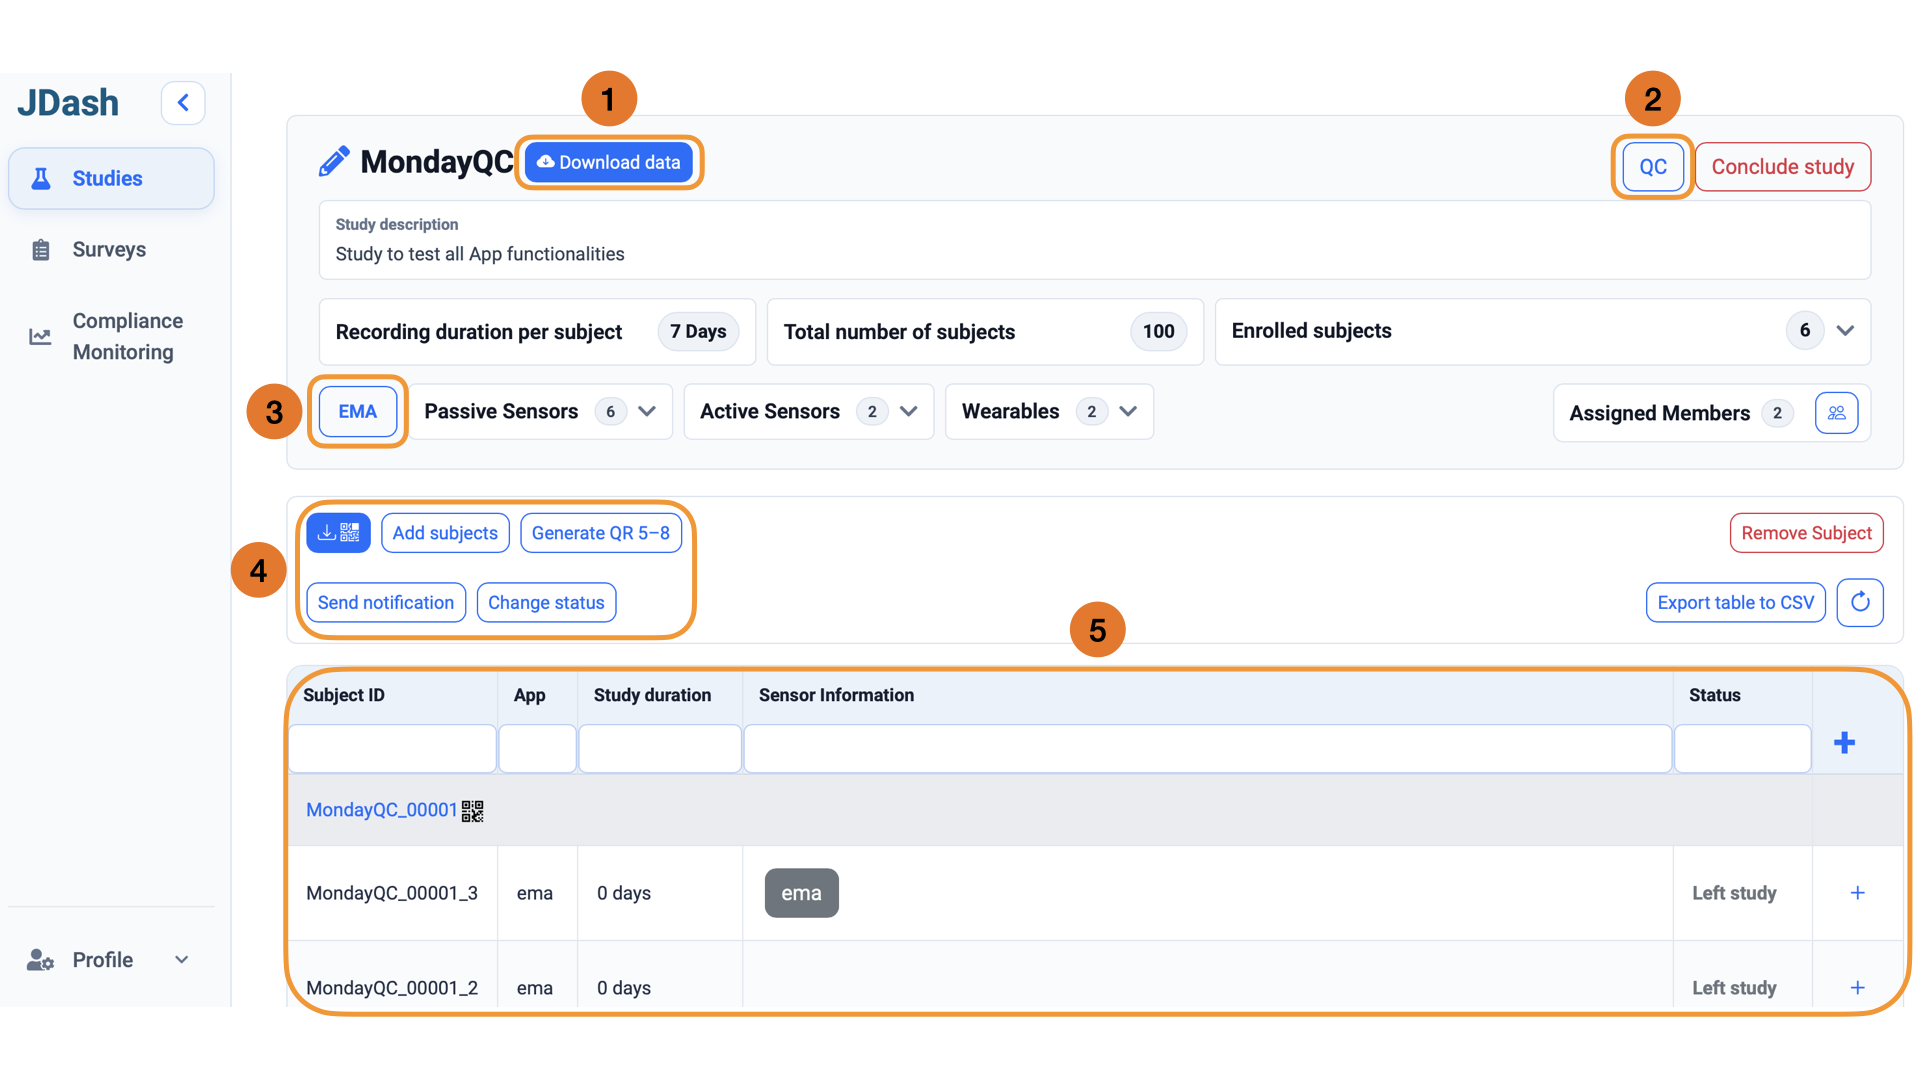
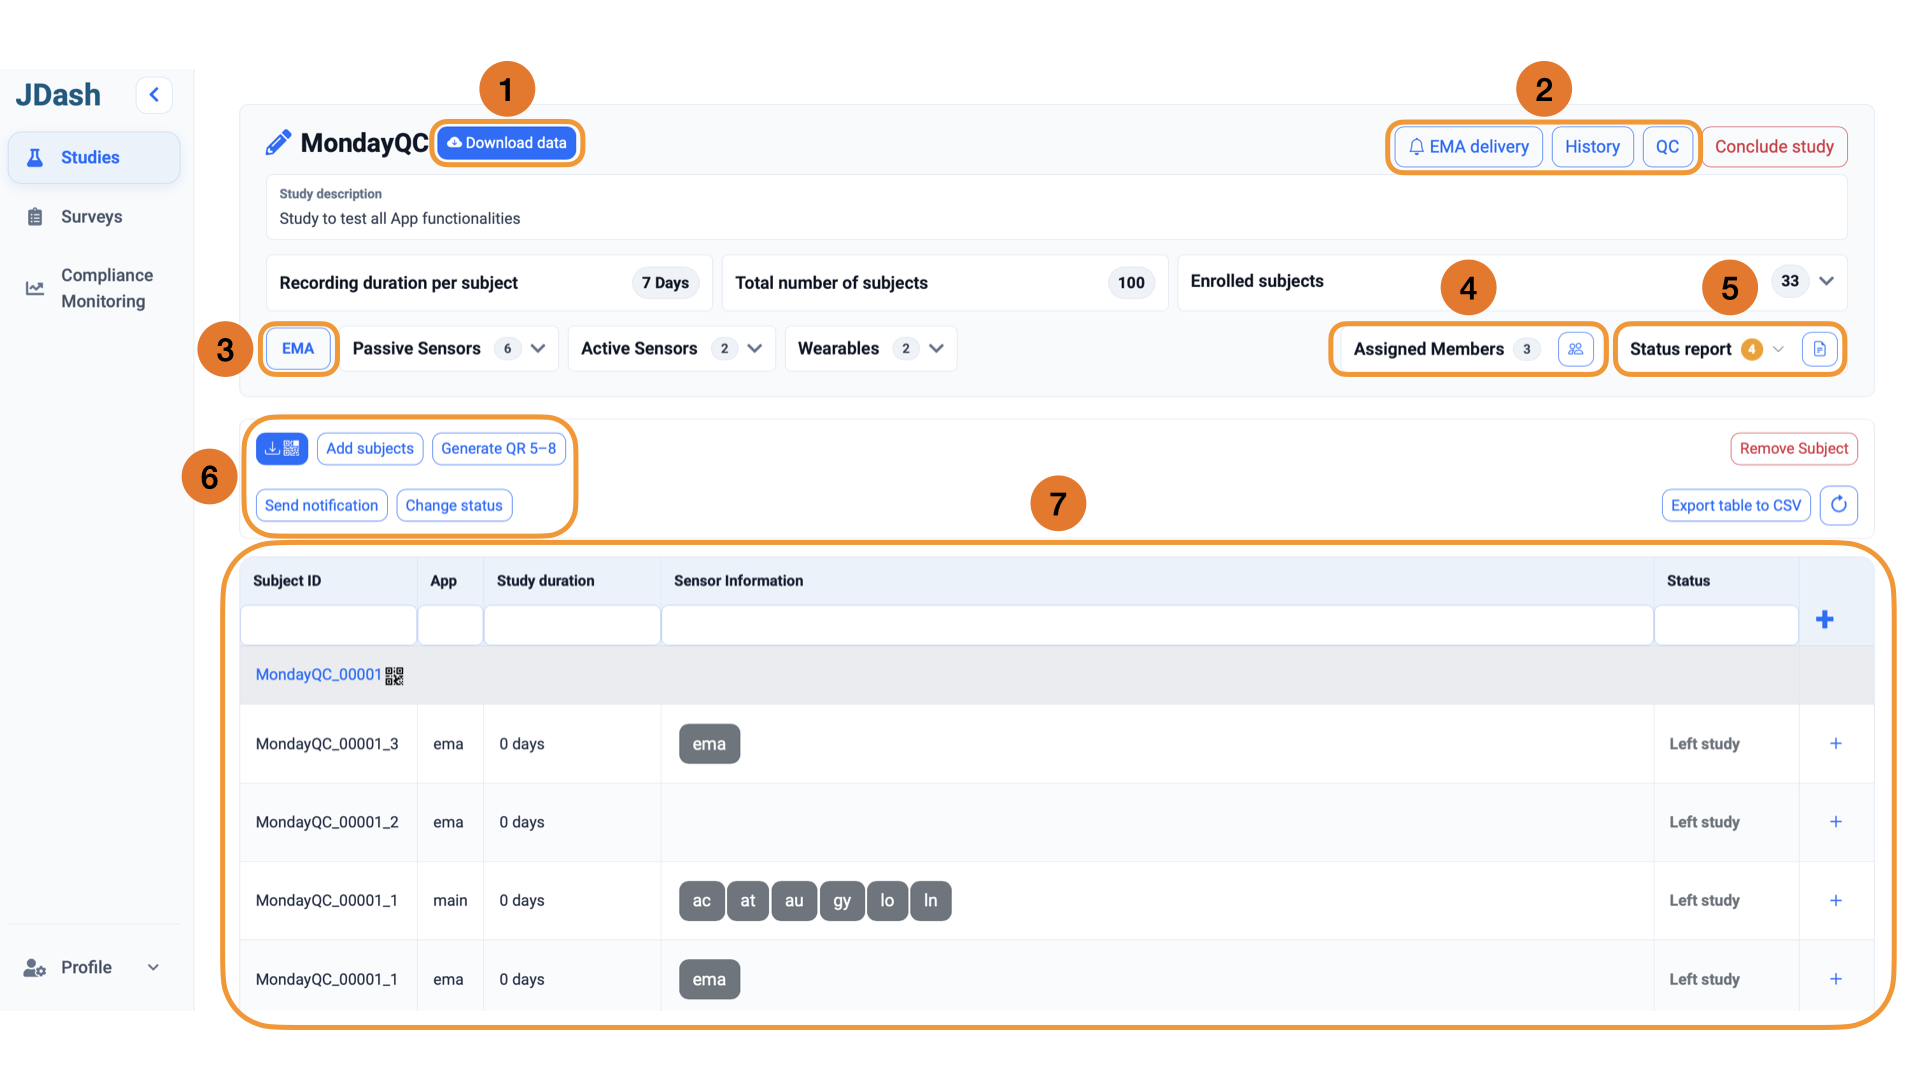
11/26 Update

diff --git a/docs/source/conf.py b/docs/source/conf.py
@@ -22,7 +22,7 @@ copyright = '2026, INM-7'
 author = 'Mamaka Narava, Mehran Turna & Jona M. Fischer'
 
 # The full version, including alpha/beta/rc tags
-release = '2.3 (10/26)'
+release = '2.31 (11/26)'
 
 master_doc = 'index'
 PYTHONUTF8 = 1

diff --git a/docs/source/JTrack_Dashboard.rst b/docs/source/JTrack_Dashboard.rst
@@ -432,9 +432,9 @@ Check the recording duration, recruitment target, and selected sensors before
 preparing participant enrollment.
 
 .. image:: image/JDash/JDashStudyView.png
-    :width: 80%
+    :width: 100%
     :align: center
-    :alt: Study details with numbered download, QC, EMA, participant actions, and subject table
+    :alt: Study details with seven numbered areas: data download, review tools, EMA, assigned members, status report, participant actions, and subject table
 
 .. container:: quick-box plain
 
@@ -443,16 +443,72 @@ preparing participant enrollment.
     - **Download data (1):** request an export of collected sensor or EMA data;
       download instructions are sent by email. See :ref:`Data Export <data-export>`
       for formats and :ref:`Roles & Permissions <jdash-permissions>` for access.
-    - :ref:`QC (2) <audit-study>`: open the study's quality-control checklist.
-    - **EMA (3):** inspect the questionnaire assigned to the study.
-    - :ref:`Participant actions (4) <subject-management>`: add participants,
-      prepare QR codes, send notifications, or change status.
-    - :ref:`Subject table (5) <subject-table>`: inspect participant records
+    - **Review tools (2):** open **EMA delivery** to review EMA notification
+      delivery, :ref:`History <history-study>` to inspect recorded study changes,
+      or :ref:`QC <audit-study>` for the quality-control checklist.
+    - **EMA (3):** inspect the questionnaire assigned to the study. See the
+      :ref:`survey editor <survey-edit-view>` for question configuration.
+    - :ref:`Assigned members (4) <study-assigned-members>`: review who has access
+      to the study and open membership management.
+    - :ref:`Study status (5) <study-status>`: review reported sensor and permission
+      checks and identify participants who may need follow-up.
+    - :ref:`Participant actions (6) <subject-management>`: add participants,
+      prepare QR codes, send notifications, or change participant status.
+    - :ref:`Subject table (7) <subject-table>`: inspect participant records
       and received data.
+
+.. _study-assigned-members:
+
+Assigned members
+~~~~~~~~~~~~~~~~~
+
+Expand **Assigned Members** to review the study's memberships. Use the people
+icon to open access management. Study roles determine what each member can do;
+see :ref:`Roles & Permissions <jdash-permissions>` for permissions and instructions
+for adding members.
+
+.. _study-status:
+
+Study Status
+~~~~~~~~~~~~~
+
+Expand **Status report** for a summary of sensor and permission checks. The
+badge highlights the number of participants needing attention. Click the
+report icon to open the **Study status report** popup.
+
+.. image:: image/JDash/JDashStudyStatus.png
+    :width: 100%
+    :align: center
+    :alt: Study status report with sensor and permission percentages, attention and no-report tabs, participant-specific findings, last report times, and a download button
+
+The report covers **currently enrolled participants**. **Sensors** summarizes
+reported sensor checks, while **Permissions** summarizes reported permission
+checks. Percentages use only participants who have submitted a status report.
+For example, the screenshot shows 14 reporting participants out of 33 enrolled:
+all 14 pass the sensor check, while 10 pass the permission check (71%). The
+remaining 19 participants are listed separately and are not counted as failures.
+
+- **Needs attention:** review the affected subject IDs, associated QR activation
+  codes, sensor and permission findings, and each participant's **Last report**
+  timestamp. In the example, four participants need a background-location
+  permission check despite their sensors showing **Match**.
+- **No report yet:** identify enrolled participants for whom no status report
+  is available. A missing report alone does not establish a sensor or permission
+  problem.
+- **Download report:** save the report for review and follow-up.
+
+Check report timestamps before following up: status reports describe the last
+reported device state. They do not confirm that all measurement data has arrived.
+Use the :ref:`subject table <subject-table>` and
+:ref:`Compliance Monitoring <jdash-compliance-monitoring>` to inspect received
+data. For how the iOS app sends these reports, see
+:ref:`Weekly technical status report <social-weekly-status-report>`; for device
+checks, see :ref:`iOS troubleshooting <social-troubleshooting-ios>`.
 
 .. _subject-management:
 
-**Participant management (4)**
+Participant Management
+~~~~~~~~~~~~~~~~~~~~~~~
 
 Use **Add subjects** to create additional participant IDs. This is separate
 from editing the planned **Number of subjects** in the study configuration.
@@ -511,7 +567,8 @@ If you choose **Remove and delete subject data**:
 
 .. _subject-table:
 
-**Subject table (5)**
+Subject Table
+~~~~~~~~~~~~~~
 
 Use the filters beneath the column headings to find a participant or restrict
 the view by app, sensor information, or status. **App** distinguishes JTrack
@@ -844,6 +901,13 @@ question is available:
     * - Activation time(s) / Deactivation time(s)
       - Matching start and end times for the response windows, in minutes
         after midnight.
+
+.. note::
+
+   Setting **Repetition interval (days)** to ``1`` (**daily**) schedules the
+   question's calendar event for **07:00** in JTrack EMA+. See
+   :ref:`Calendar Reminders <ema-calendar-reminders>` for how participants
+   add the event to their phone calendar.
 
 For example, ``480`` is 08:00 and ``1430`` is 23:50. For two windows, enter
 matching lists such as ``[480, 900]`` and ``[600, 1000]`` for 08:00–10:00 and

diff --git a/docs/source/Partners_and_Collaborations.rst b/docs/source/Partners_and_Collaborations.rst
@@ -44,6 +44,17 @@ For collaboration enquiries and information about using JTrack in a study, see :
        object-fit: contain;
    }
 
+   /* Fill more of the existing card with the SensorKit artwork. */
+   .partner-card.sensorkit-card {
+       padding: 8px;
+   }
+
+   .partner-card.sensorkit-card img {
+       max-height: 144px;
+       width: 100%;
+       height: 100%;
+   }
+
    @media (max-width: 900px) {
        .partners-grid {
            grid-template-columns: 1fr;
@@ -105,6 +116,13 @@ For collaboration enquiries and information about using JTrack in a study, see :
 
    <div class="partners-grid">
 
+      <!-- Apple SensorKit -->
+      <a class="partner-card sensorkit-card"
+         href="https://healthresearch.apple.com/resources/accessing-sensorkit-data/"
+         target="_blank">
+         <img src="_static/AppleSensorkit-centered.png" alt="Apple SensorKit">
+      </a>
+
       <!-- Garmin -->
       <a class="partner-card"
          href="https://www.garmin.com/de-DE/"
@@ -120,7 +138,7 @@ For collaboration enquiries and information about using JTrack in a study, see :
       </a>
 
       <!-- UKD full width -->
-      <a class="partner-card partner-wide"
+      <a class="partner-card"
          href="https://www.uniklinik-duesseldorf.de/"
          target="_blank">
          <img src="_static/ukd.svg">
@@ -141,3 +159,72 @@ For collaboration enquiries and information about using JTrack in a study, see :
       </a>
 
    </div>
+
+
+.. _sensorkit-publications:
+
+Acknowledging SensorKit in Publications
+++++++++++++++++++++++++++++++++++++++++
+
+When publishing research that uses SensorKit data collected through JTrack
+Social, acknowledge the use of **Apple SensorKit** and identify the relevant
+data types in the methods section.
+
+Before submitting a publication, check your institution's signed SensorKit
+Addendum and study approval correspondence for any required acknowledgement
+wording. Apple's public `SensorKit access guidance
+<https://healthresearch.apple.com/resources/accessing-sensorkit-data/>`_ and
+`research proposal materials
+<https://healthresearch.apple.com/media/SensorKit-research-proposal.pdf>`_ describe
+the approval process and agreements; we have not identified a standard
+publication acknowledgement sentence in these public materials.
+
+Suggested wording (not an Apple-prescribed statement):
+
+    This study used Apple's SensorKit framework to collect [data types]
+    through the JTrack Social app.
+
+Adapt this sentence to the data actually used and any requirements in your
+study's agreement. If the required wording is unclear, confirm it with your
+institution's Apple Developer account holder or Apple SensorKit contact.
+
+
+.. important::
+
+   **Contact us before preparing your publication** if you would like help
+   identifying the SensorKit acknowledgement requirements for your JTrack
+   study. :ref:`Our team <contact-us>` can provide further details about the
+   integration and help clarify which agreement requirements to check.
+
+.. _garmin-publications:
+
+Acknowledging Garmin in Publications
+++++++++++++++++++++++++++++++++++++++++
+
+Publications using Garmin data should identify the **device model** and
+**Garmin Health Standard SDK** in the methods section. Check the applicable
+Garmin agreement for additional attribution requirements.
+
+Garmin's `API Brand Guidelines
+<https://developer.garmin.com/downloads/brand/Garmin-Developer-API-Brand-Guidelines.pdf>`_
+provide attribution rules for data displays, reports, exported visuals, and
+derived results, including identification of Garmin and the device model.
+Their applicability to a JTrack deployment must be checked against its signed
+**Garmin Health Standard SDK agreement**. Do not assume that exceptions for
+research using the Garmin Health API also apply to the Standard SDK.
+
+Suggested methods wording (not a Garmin-prescribed statement):
+
+    Wearable data were collected using Garmin [model] devices through the
+    Garmin Health Standard SDK integrated into JTrack Social.
+
+Adapt this sentence to the devices and data collection workflow actually used.
+It does not replace any attribution required in figures, reports, or other
+outputs by the applicable agreement.
+
+.. important::
+
+   **Contact us before preparing your publication** for more details about
+   Garmin attribution in your JTrack study. :ref:`Our team <contact-us>` can
+   explain the integration and help identify the relevant agreement and any
+   requirements that need confirmation with Garmin Health.

diff --git a/docs/source/Garmin_Integration.rst b/docs/source/Garmin_Integration.rst
@@ -6,6 +6,14 @@ JTrack Social supports compatible Garmin wearables through the **Garmin Health S
 
 The study configuration determines which wearable signals are requested and at which supported sampling interval. Availability still depends on the watch model, firmware, SDK support, and the Garmin features licensed for the JTrack deployment.
 
+.. note::
+
+   **Publishing research using Garmin data?** Identify the device model and
+   Garmin Health Standard SDK, and check the applicable attribution requirements.
+   See :ref:`Acknowledging Garmin in Publications <garmin-publications>` for
+   suggested wording. **Contact** :ref:`our team <contact-us>` **for more details**
+   about the requirements for your JTrack study.
+
 The Garmin integration currently supports:
 
 - pairing and study-specific watch configuration;

diff --git a/docs/source/EMA.rst b/docs/source/EMA.rst
@@ -124,6 +124,13 @@ Calendar Reminders
 - If you do not want to add the reminder immediately, tap **Not Now**. If you never want the event added for that prompt, tap **I Don't want**.
 - Once the event is added, your phone calendar can notify you at the scheduled survey time.
 
+.. note::
+
+   When a question is set to **daily**, its calendar event is scheduled for
+   **07:00**. Follow the **Add Event** prompt to add it to your calendar.
+   Researchers configure daily repetition in the
+   :ref:`JDash question settings <question-default-settings>`.
+
 For the recommended notification, Focus-mode, and calendar settings, see :ref:`Compliance Optimization for JTrack EMA+ <compliance-ema>`.
 
    .. image:: image/EMA/EMA_calendar_add_event.png

diff --git a/docs/source/Social.rst b/docs/source/Social.rst
@@ -620,6 +620,12 @@ with it.
 SensorKit Authorization
 ~~~~~~~~~~~~~~~~~~~~~~~~
 
+.. note::
+
+   **For study investigators:** publications using SensorKit data should
+   acknowledge Apple SensorKit. See :ref:`Acknowledging SensorKit in Publications
+   <sensorkit-publications>` for suggested wording and agreement checks.
+
 If the study requests SensorKit access, complete the research-data request:
 
 1. Read **Research Sensor & Usage Data Request**, including the research
